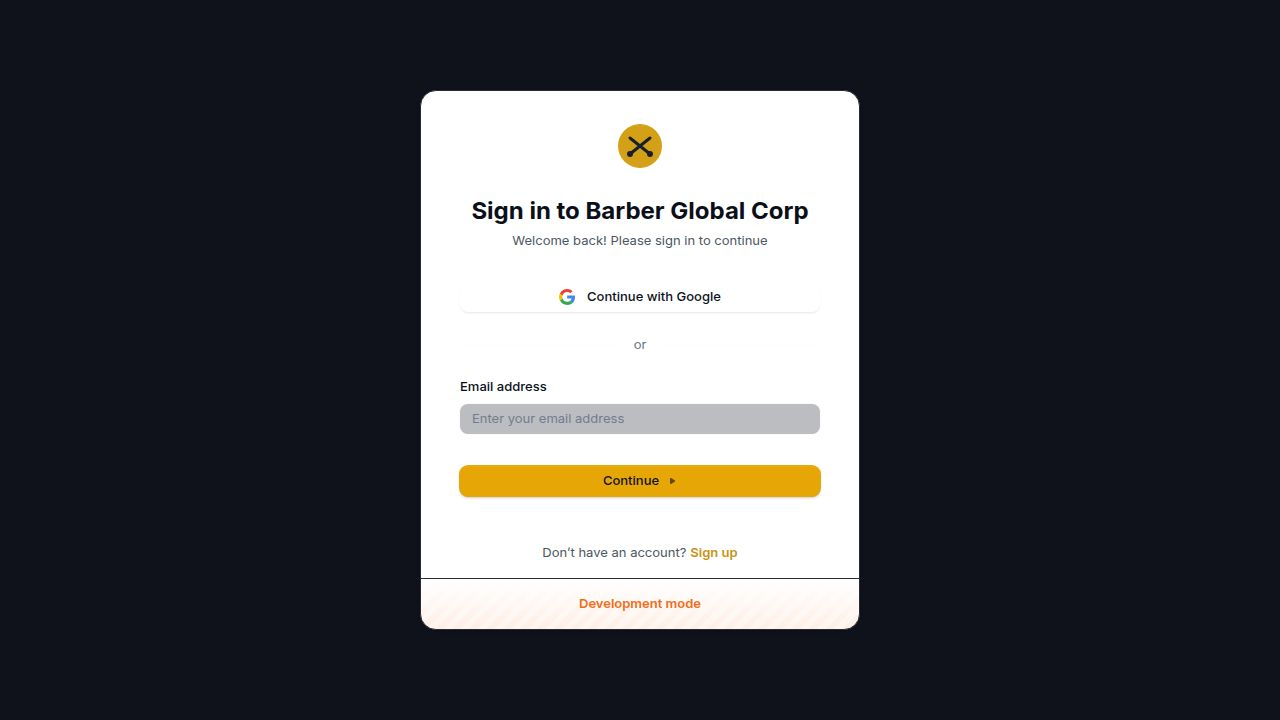
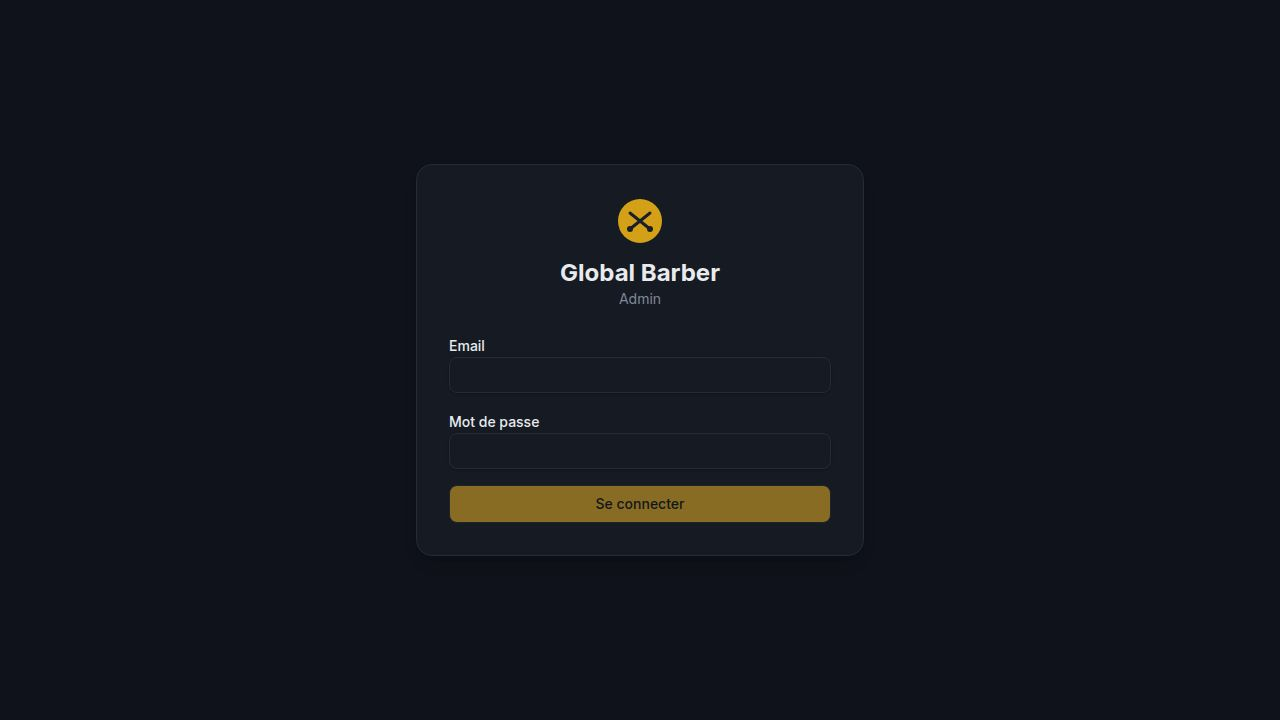
Improve admin authentication and secure sensitive routes
Implement a hybrid authentication middleware to support both admin JWTs and Clerk users, securing routes like reservations, financing, and notifications. Also, remove sensitive JWT from login responses and enhance seeder error handling.

Replit-Commit-Author: Agent
Replit-Commit-Session-Id: d0917797-7039-4a5b-8c94-3bd20cb3b4da
Replit-Commit-Checkpoint-Type: full_checkpoint
Replit-Commit-Event-Id: 1d0fe292-1907-4cd6-90ed-70144d44e8e8
Replit-Commit-Screenshot-Url: https://storage.googleapis.com/screenshot-production-us-central1/c367b1a9-b17c-4c3e-abc5-1856463eecec/d0917797-7039-4a5b-8c94-3bd20cb3b4da/CzHk1ge
Replit-Helium-Checkpoint-Created: true

Changed region(s): [[0.3125, 0.1222, 0.6875, 0.8861]]

diff --git a/artifacts/api-server/src/lib/adminAuth.ts b/artifacts/api-server/src/lib/adminAuth.ts
@@ -3,6 +3,7 @@ import jwt from "jsonwebtoken";
 import type { Request, Response, NextFunction } from "express";
 import { db, adminAccountsTable, type AdminAccount } from "@workspace/db";
 import { eq } from "drizzle-orm";
+import { requireAuth, type AuthedRequest } from "./clerkAuth";
 
 export const ADMIN_COOKIE_NAME = "gbc_admin";
 const TOKEN_TTL_SECONDS = 60 * 60 * 12; // 12 hours
@@ -76,27 +77,49 @@ export interface AdminAuthedRequest extends Request {
   admin?: AdminAccount;
 }
 
+/**
+ * Internal: resolve a request's admin from the cookie, if any. Does not
+ * write the response. Returns null when no valid admin session exists.
+ * NOTE: admin auth is strictly cookie-based — Authorization Bearer tokens
+ * are NOT accepted for admin routes (clients are first-party only).
+ */
+async function resolveAdminFromCookie(req: Request): Promise<AdminAccount | null> {
+  const cookies = (req as Request & { cookies?: Record<string, string> }).cookies;
+  const token = cookies?.[ADMIN_COOKIE_NAME];
+  if (!token) return null;
+  const decoded = verifyAdminToken(token);
+  if (!decoded) return null;
+  const [admin] = await db.select().from(adminAccountsTable).where(eq(adminAccountsTable.id, decoded.sub)).limit(1);
+  if (!admin || admin.status !== "active") return null;
+  return admin;
+}
+
 export async function requireAdminAuth(
   req: AdminAuthedRequest,
   res: Response,
   next: NextFunction,
 ): Promise<void> {
-  const cookies = (req as Request & { cookies?: Record<string, string> }).cookies;
-  const fromCookie = cookies?.[ADMIN_COOKIE_NAME];
-  const authHeader = req.headers.authorization;
-  const fromHeader = authHeader?.startsWith("Bearer ") ? authHeader.slice(7) : null;
-  const token = fromCookie || fromHeader;
-  if (!token) { res.status(401).json({ error: "Admin auth required" }); return; }
-
-  const decoded = verifyAdminToken(token);
-  if (!decoded) { res.status(401).json({ error: "Invalid or expired admin token" }); return; }
-
-  const [admin] = await db.select().from(adminAccountsTable).where(eq(adminAccountsTable.id, decoded.sub)).limit(1);
-  if (!admin) { res.status(401).json({ error: "Admin account not found" }); return; }
-  if (admin.status !== "active") { res.status(403).json({ error: "Admin account suspended" }); return; }
-
+  const admin = await resolveAdminFromCookie(req);
+  if (!admin) { res.status(401).json({ error: "Admin auth required" }); return; }
   req.admin = admin;
   next();
+}
+
+/**
+ * Hybrid guard for endpoints used by BOTH self-managed admins (cookie JWT)
+ * AND first-party Clerk users (clients/barbers). Tries admin auth first;
+ * on success, sets `req.admin`. Otherwise falls through to Clerk
+ * `requireAuth`, which sets `req.localUser`. Handlers should branch on
+ * `req.admin ?? req.localUser` accordingly.
+ */
+export async function requireAuthOrAdmin(
+  req: AdminAuthedRequest & AuthedRequest,
+  res: Response,
+  next: NextFunction,
+): Promise<void> {
+  const admin = await resolveAdminFromCookie(req);
+  if (admin) { req.admin = admin; next(); return; }
+  return requireAuth(req, res, next);
 }
 
 export function sanitizeAdmin(a: AdminAccount): Omit<AdminAccount, "passwordHash"> {

diff --git a/artifacts/api-server/src/routes/reservations.ts b/artifacts/api-server/src/routes/reservations.ts
@@ -3,6 +3,7 @@ import { db, reservationsTable, usersTable, barbersTable, servicesTable } from "
 import { eq, desc, or } from "drizzle-orm";
 import { z } from "zod";
 import { requireAuth, type AuthedRequest } from "../lib/clerkAuth";
+import { requireAuthOrAdmin, type AdminAuthedRequest } from "../lib/adminAuth";
 
 const router = Router();
 
@@ -13,17 +14,19 @@ async function enrichReservation(r: typeof reservationsTable.$inferSelect) {
   return { ...r, clientName: client?.name, clientPhone: client?.phone ?? null, barberName: barber?.salonName, serviceName: service?.name, servicePrice: service?.price };
 }
 
-router.get("/reservations", requireAuth, async (req: AuthedRequest, res) => {
+router.get("/reservations", requireAuthOrAdmin, async (req: AdminAuthedRequest & AuthedRequest, res) => {
   const { page = "1", limit = "20", status, barberId, clientId, dateFrom, dateTo, search } = req.query as Record<string, string>;
   const offset = (parseInt(page) - 1) * parseInt(limit);
-  const user = req.localUser!;
 
   let rows = await db.select().from(reservationsTable).orderBy(desc(reservationsTable.createdAt));
-  if (user.role === "client") {
-    rows = rows.filter(r => r.clientId === user.id);
-  } else if (user.role === "barber") {
-    const [b] = await db.select().from(barbersTable).where(eq(barbersTable.userId, user.id)).limit(1);
-    rows = b ? rows.filter(r => r.barberId === b.id) : [];
+  if (!req.admin) {
+    const user = req.localUser!;
+    if (user.role === "client") {
+      rows = rows.filter(r => r.clientId === user.id);
+    } else if (user.role === "barber") {
+      const [b] = await db.select().from(barbersTable).where(eq(barbersTable.userId, user.id)).limit(1);
+      rows = b ? rows.filter(r => r.barberId === b.id) : [];
+    }
   }
   // admin: see all
   if (status) rows = rows.filter(r => r.status === status);
@@ -63,30 +66,42 @@ router.post("/reservations", requireAuth, async (req: AuthedRequest, res) => {
   res.status(201).json(await enrichReservation(res2));
 });
 
-router.get("/reservations/:id", requireAuth, async (req: AuthedRequest, res) => {
+router.get("/reservations/:id", requireAuthOrAdmin, async (req: AdminAuthedRequest & AuthedRequest, res) => {
   const [r] = await db.select().from(reservationsTable).where(eq(reservationsTable.id, parseInt(String(req.params.id)))).limit(1);
   if (!r) { res.status(404).json({ error: "Not found" }); return; }
-  const user = req.localUser!;
-  if (user.role === "client" && r.clientId !== user.id) { res.status(403).json({ error: "Forbidden" }); return; }
-  if (user.role === "barber") {
-    const [b] = await db.select().from(barbersTable).where(eq(barbersTable.userId, user.id)).limit(1);
-    if (!b || r.barberId !== b.id) { res.status(403).json({ error: "Forbidden" }); return; }
+  if (!req.admin) {
+    const user = req.localUser!;
+    if (user.role === "client" && r.clientId !== user.id) { res.status(403).json({ error: "Forbidden" }); return; }
+    if (user.role === "barber") {
+      const [b] = await db.select().from(barbersTable).where(eq(barbersTable.userId, user.id)).limit(1);
+      if (!b || r.barberId !== b.id) { res.status(403).json({ error: "Forbidden" }); return; }
+    }
   }
   res.json(await enrichReservation(r));
 });
 
-router.patch("/reservations/:id", requireAuth, async (req: AuthedRequest, res) => {
+router.patch("/reservations/:id", requireAuthOrAdmin, async (req: AdminAuthedRequest & AuthedRequest, res) => {
   const id = parseInt(String(req.params.id));
   const [existing] = await db.select().from(reservationsTable).where(eq(reservationsTable.id, id)).limit(1);
   if (!existing) { res.status(404).json({ error: "Not found" }); return; }
+
+  // Admin path: any status.
+  if (req.admin) {
+    const body = z.object({ status: z.enum(["pending", "confirmed", "cancelled", "completed"]) }).safeParse(req.body);
+    if (!body.success) { res.status(400).json({ error: "Invalid input" }); return; }
+    const [updated] = await db.update(reservationsTable).set({ status: body.data.status }).where(eq(reservationsTable.id, id)).returning();
+    res.json(await enrichReservation(updated));
+    return;
+  }
+
   const user = req.localUser!;
-  // Client can cancel their own. Barber can confirm/complete/cancel their own. Admin all.
+  // Client can cancel their own. Barber can confirm/complete/cancel their own.
   if (user.role === "client" && existing.clientId !== user.id) { res.status(403).json({ error: "Forbidden" }); return; }
   if (user.role === "barber") {
     const [b] = await db.select().from(barbersTable).where(eq(barbersTable.userId, user.id)).limit(1);
     if (!b || existing.barberId !== b.id) { res.status(403).json({ error: "Forbidden" }); return; }
   }
-  // Clients may only cancel their own reservation; barbers/admins can set any status.
+  // Clients may only cancel their own reservation; barbers can set any status on their salon.
   const allowedStatuses = user.role === "client"
     ? (["cancelled"] as const)
     : (["pending", "confirmed", "cancelled", "completed"] as const);

diff --git a/artifacts/api-server/src/routes/financing.ts b/artifacts/api-server/src/routes/financing.ts
@@ -3,20 +3,22 @@ import { db, financingRequestsTable, barbersTable } from "@workspace/db";
 import { eq, desc } from "drizzle-orm";
 import { z } from "zod";
 import { requireAuth, type AuthedRequest } from "../lib/clerkAuth";
-import { requireAdminAuth } from "../lib/adminAuth";
+import { requireAdminAuth, requireAuthOrAdmin, type AdminAuthedRequest } from "../lib/adminAuth";
 
 const router = Router();
 
-router.get("/financing-requests", requireAuth, async (req: AuthedRequest, res) => {
+router.get("/financing-requests", requireAuthOrAdmin, async (req: AdminAuthedRequest & AuthedRequest, res) => {
   const { page = "1", limit = "20", status } = req.query as Record<string, string>;
   const offset = (parseInt(page) - 1) * parseInt(limit);
-  const user = req.localUser!;
   let rows = await db.select().from(financingRequestsTable).orderBy(desc(financingRequestsTable.createdAt));
-  if (user.role === "barber") {
-    const [b] = await db.select().from(barbersTable).where(eq(barbersTable.userId, user.id)).limit(1);
-    rows = b ? rows.filter(r => r.barberId === b.id) : [];
-  } else if (user.role !== "admin") {
-    res.status(403).json({ error: "Forbidden" }); return;
+  if (!req.admin) {
+    const user = req.localUser!;
+    if (user.role === "barber") {
+      const [b] = await db.select().from(barbersTable).where(eq(barbersTable.userId, user.id)).limit(1);
+      rows = b ? rows.filter(r => r.barberId === b.id) : [];
+    } else {
+      res.status(403).json({ error: "Forbidden" }); return;
+    }
   }
   if (status) rows = rows.filter(r => r.status === status);
   const enriched = await Promise.all(rows.slice(offset, offset + parseInt(limit)).map(async r => {
@@ -26,15 +28,17 @@ router.get("/financing-requests", requireAuth, async (req: AuthedRequest, res) =
   res.json({ data: enriched, total: rows.length, page: parseInt(page), limit: parseInt(limit) });
 });
 
-router.get("/financing-requests/:id", requireAuth, async (req: AuthedRequest, res) => {
+router.get("/financing-requests/:id", requireAuthOrAdmin, async (req: AdminAuthedRequest & AuthedRequest, res) => {
   const [row] = await db.select().from(financingRequestsTable).where(eq(financingRequestsTable.id, parseInt(String(req.params.id)))).limit(1);
   if (!row) { res.status(404).json({ error: "Not found" }); return; }
-  const user = req.localUser!;
-  if (user.role === "barber") {
-    const [b] = await db.select().from(barbersTable).where(eq(barbersTable.userId, user.id)).limit(1);
-    if (!b || row.barberId !== b.id) { res.status(403).json({ error: "Forbidden" }); return; }
-  } else if (user.role !== "admin") {
-    res.status(403).json({ error: "Forbidden" }); return;
+  if (!req.admin) {
+    const user = req.localUser!;
+    if (user.role === "barber") {
+      const [b] = await db.select().from(barbersTable).where(eq(barbersTable.userId, user.id)).limit(1);
+      if (!b || row.barberId !== b.id) { res.status(403).json({ error: "Forbidden" }); return; }
+    } else {
+      res.status(403).json({ error: "Forbidden" }); return;
+    }
   }
   const [barber] = await db.select({ salonName: barbersTable.salonName }).from(barbersTable).where(eq(barbersTable.id, row.barberId)).limit(1);
   res.json({ ...row, barberName: barber?.salonName });

diff --git a/artifacts/api-server/src/routes/notifications.ts b/artifacts/api-server/src/routes/notifications.ts
@@ -3,15 +3,17 @@ import { db, notificationsTable, usersTable } from "@workspace/db";
 import { eq, desc, and } from "drizzle-orm";
 import { z } from "zod";
 import { requireAuth, type AuthedRequest } from "../lib/clerkAuth";
-import { requireAdminAuth } from "../lib/adminAuth";
+import { requireAdminAuth, requireAuthOrAdmin, type AdminAuthedRequest } from "../lib/adminAuth";
 
 const router = Router();
 
-router.get("/notifications", requireAuth, async (req: AuthedRequest, res) => {
+router.get("/notifications", requireAuthOrAdmin, async (req: AdminAuthedRequest & AuthedRequest, res) => {
+  if (req.admin) {
+    const rows = await db.select().from(notificationsTable).orderBy(desc(notificationsTable.createdAt)).limit(100);
+    res.json(rows); return;
+  }
   const user = req.localUser!;
-  const rows = user.role === "admin"
-    ? await db.select().from(notificationsTable).orderBy(desc(notificationsTable.createdAt)).limit(100)
-    : await db.select().from(notificationsTable).where(eq(notificationsTable.userId, user.id)).orderBy(desc(notificationsTable.createdAt)).limit(100);
+  const rows = await db.select().from(notificationsTable).where(eq(notificationsTable.userId, user.id)).orderBy(desc(notificationsTable.createdAt)).limit(100);
   res.json(rows);
 });
 
@@ -27,12 +29,11 @@ router.post("/notifications", requireAdminAuth, async (req, res) => {
   res.status(201).json(notif);
 });
 
-router.patch("/notifications/:id/read", requireAuth, async (req: AuthedRequest, res) => {
+router.patch("/notifications/:id/read", requireAuthOrAdmin, async (req: AdminAuthedRequest & AuthedRequest, res) => {
   const id = parseInt(String(req.params.id));
-  const user = req.localUser!;
-  const where = user.role === "admin"
+  const where = req.admin
     ? eq(notificationsTable.id, id)
-    : and(eq(notificationsTable.id, id), eq(notificationsTable.userId, user.id));
+    : and(eq(notificationsTable.id, id), eq(notificationsTable.userId, req.localUser!.id));
   const [updated] = await db.update(notificationsTable).set({ isRead: true }).where(where).returning();
   if (!updated) { res.status(404).json({ error: "Not found" }); return; }
   res.json(updated);

diff --git a/artifacts/api-server/src/lib/adminSeed.ts b/artifacts/api-server/src/lib/adminSeed.ts
@@ -34,6 +34,20 @@ export async function ensureRootAdmin(): Promise<void> {
     return;
   }
 
+  // Refuse to overwrite an existing non-root account that already holds the
+  // seed email — otherwise the seeder would silently swallow the conflict
+  // and report success while no root admin exists.
+  const [conflict] = await db.select().from(adminAccountsTable).where(eq(adminAccountsTable.email, email)).limit(1);
+  if (conflict) {
+    logger.error(
+      { email },
+      "ADMIN_ROOT_EMAIL is already used by a non-root admin account. " +
+        "Either change ADMIN_ROOT_EMAIL or remove the conflicting account. " +
+        "No root admin will be seeded.",
+    );
+    return;
+  }
+
   const passwordHash = await hashPassword(password);
   await db.insert(adminAccountsTable).values({
     email,
@@ -42,7 +56,7 @@ export async function ensureRootAdmin(): Promise<void> {
     isRoot: true,
     mustChangePassword: true,
     status: "active",
-  }).onConflictDoNothing({ target: adminAccountsTable.email });
+  });
 
   logger.info({ email }, "Root admin seeded — change password on first login");
 }

diff --git a/artifacts/api-server/src/lib/email.ts b/artifacts/api-server/src/lib/email.ts
@@ -45,8 +45,11 @@ export async function sendEmail(opts: SendEmailOptions): Promise<{ delivered: bo
   const ctx = getTransporter();
   if (!ctx) {
     const level = process.env.NODE_ENV === "production" ? "warn" : "info";
+    // Intentionally OMIT the body — invitation/reset emails contain
+    // temporary credentials that must never be written to logs. Surface
+    // only metadata so operators know SMTP is missing.
     logger[level](
-      { to: opts.to, subject: opts.subject, body: opts.text },
+      { to: opts.to, subject: opts.subject },
       "SMTP not configured — email NOT sent. Set SMTP_HOST/PORT/USER/PASS/FROM env vars.",
     );
     return { delivered: false };

diff --git a/artifacts/api-server/src/routes/adminAuth.ts b/artifacts/api-server/src/routes/adminAuth.ts
@@ -38,7 +38,9 @@ router.post("/admin-auth/login", async (req, res) => {
 
   const token = signAdminToken(admin.id);
   setAdminCookie(res, token);
-  res.json({ admin: sanitizeAdmin(admin), token });
+  // Cookie-only — never return the raw JWT in the body. This keeps the
+  // bearer token out of XSS reach and away from client-side storage.
+  res.json({ admin: sanitizeAdmin(admin) });
 });
 
 router.post("/admin-auth/logout", async (_req, res) => {

diff --git a/.agents/memory/MEMORY.md b/.agents/memory/MEMORY.md
@@ -10,4 +10,5 @@
 - [Countries & cities catalog](countries-cities-catalog.md) — all city/country writes go through resolveAndPersistLocation (rejects unknown countries, dedups cities per country); country UI always renders before city.
 - [Account deletion](account-deletion.md) — DELETE /api/auth/me anonymizes (not hard-deletes) because reservations/reviews FK clientId lacks cascade; public vitrine form stored in accountDeletionRequestsTable.
 - [Dual-role accounts](dual-role.md) — one Clerk user, both client & barber capabilities; users.role is the active role; switching to barber requires an existing barber profile (or fresh-signup exception in /auth/sync).
+- [Admin auth split from Clerk](admin-auth-split.md) — admins are self-managed (cookie JWT, bcrypt, separate adminAccountsTable); mobile clients/barbers stay on Clerk; hybrid routes use requireAuthOrAdmin and branch on req.admin.
 - [Shared legal content lib](legal-content-lib.md) — CGU + privacy live in lib/legal-content; consumed by mobile + vitrine; single source of truth, structured sections (no si/sip/sil keys).